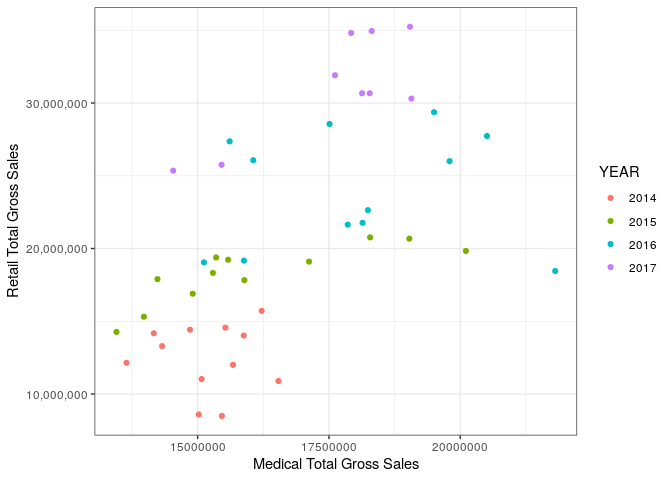
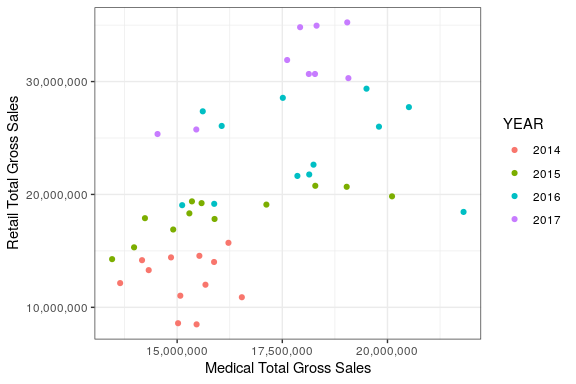
3/3 3:21 readme

diff --git a/README.md b/README.md
@@ -26,8 +26,8 @@ The development version of denverweed is available from
 
 ## About the data
 
-The data were collected and made available by the City of Denver Open
-Data Catalog.
+The data were collected and made available by the [City of Denver Open
+Data Catalog](http://data.denvergov.org).
 
 the denverweed package contains two datasets.
 
@@ -78,16 +78,19 @@ library(tidyverse)
 #> ── Conflicts ────────────────────────────────────────── tidyverse_conflicts() ──
 #> x dplyr::filter() masks stats::filter()
 #> x dplyr::lag()    masks stats::lag()
+```
 
+``` r
 ggplot(weed, aes(x = YEAR, y = GROSS_SALES)) + 
   geom_bar(stat = 'identity', fill = '#709B40') +
   facet_wrap(~GROSS_SALES_TYPE) +
   scale_y_continuous(labels = scales::comma) + 
   ylab("Gross Sales ($)") + 
-  xlab("Year")
+  xlab("Year")+
+  theme_bw()
 ```
 
-<img src="man/figures/README-unnamed-chunk-6-1.png" width="100%" />
+<img src="man/figures/README-unnamed-chunk-7-1.png" width="100%" />
 
 gross sales by month, faceted by year
 
@@ -103,7 +106,7 @@ ggplot(weed, aes(x = MONTH, y = GROSS_SALES)) +
   theme(axis.text.x = element_text(angle = 90))
 ```
 
-<img src="man/figures/README-unnamed-chunk-7-1.png" width="100%" />
+<img src="man/figures/README-unnamed-chunk-8-1.png" width="100%" />
 
 gross sales by month, faceted by year and retail/medical
 
@@ -118,7 +121,7 @@ ggplot(weed, aes(x = MONTH, y = GROSS_SALES)) +
   theme(axis.text.x = element_text(angle = 90))
 ```
 
-<img src="man/figures/README-unnamed-chunk-8-1.png" width="100%" />
+<img src="man/figures/README-unnamed-chunk-9-1.png" width="100%" />
 
 finally, a use for `weed_wider` in a scatterplot of medical vs retail
 sales, by year
@@ -126,9 +129,19 @@ sales, by year
 ``` r
 
 ggplot(weed_wider, aes(x = `Medical Total Gross Sales`, y = `Retail Total Gross Sales`, color = YEAR)) +
-  geom_point()+
-  scale_y_continuous(labels = scales::comma)+
+  geom_point() +
+  scale_y_continuous(labels = scales::comma) +
+   scale_x_continuous(labels = scales::comma) +
   theme_bw()
 ```
 
-<img src="man/figures/README-unnamed-chunk-9-1.png" width="100%" />
+<img src="man/figures/README-unnamed-chunk-10-1.png" width="100%" />
+
+\#Attribution The data “Marijuana Gross Sales” ver 1.0.733, from the
+[City of Denver Open Data Catalog](http://data.denvergov.org), is
+licensed under [CC BY 3.0](http://creativecommons.org/licenses/by/3.0/)
+
+\#License Data are available under a [CC
+BY 3.0](http://creativecommons.org/licenses/by/3.0/) license, in
+accordance with the [City of Denver Open Data Catalog terms of
+use](https://www.denvergov.org/opendata/termsofuse)
